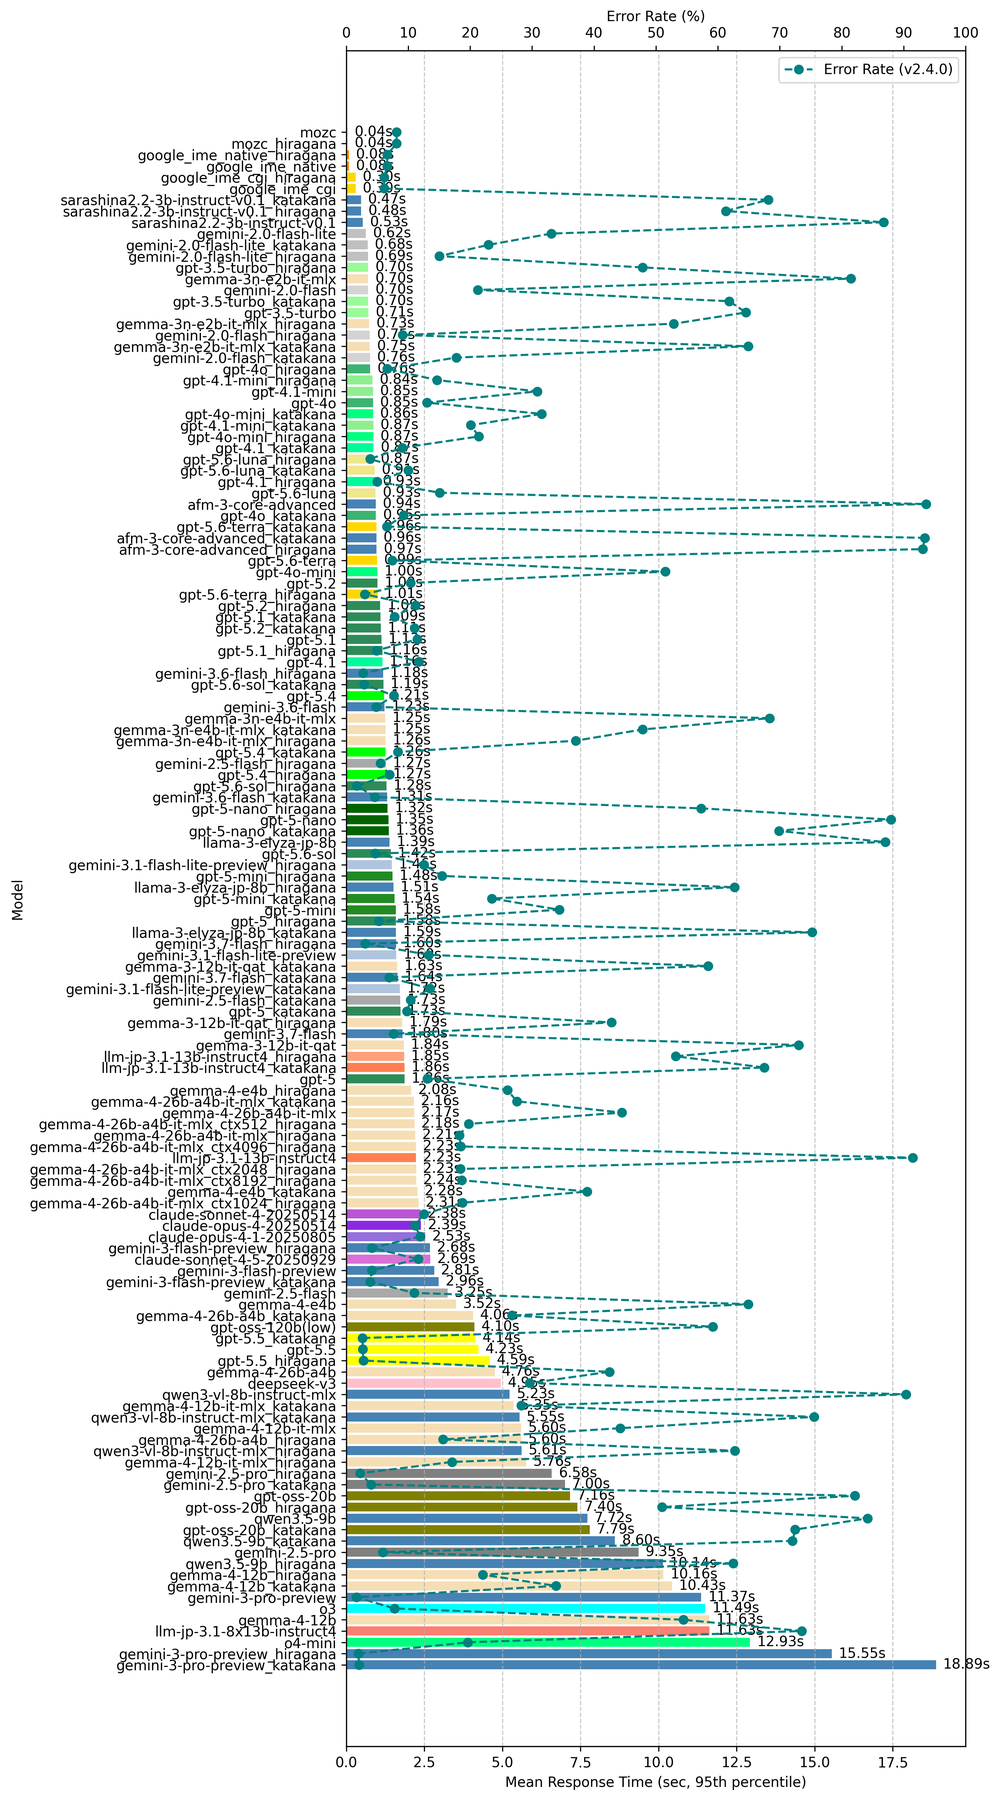
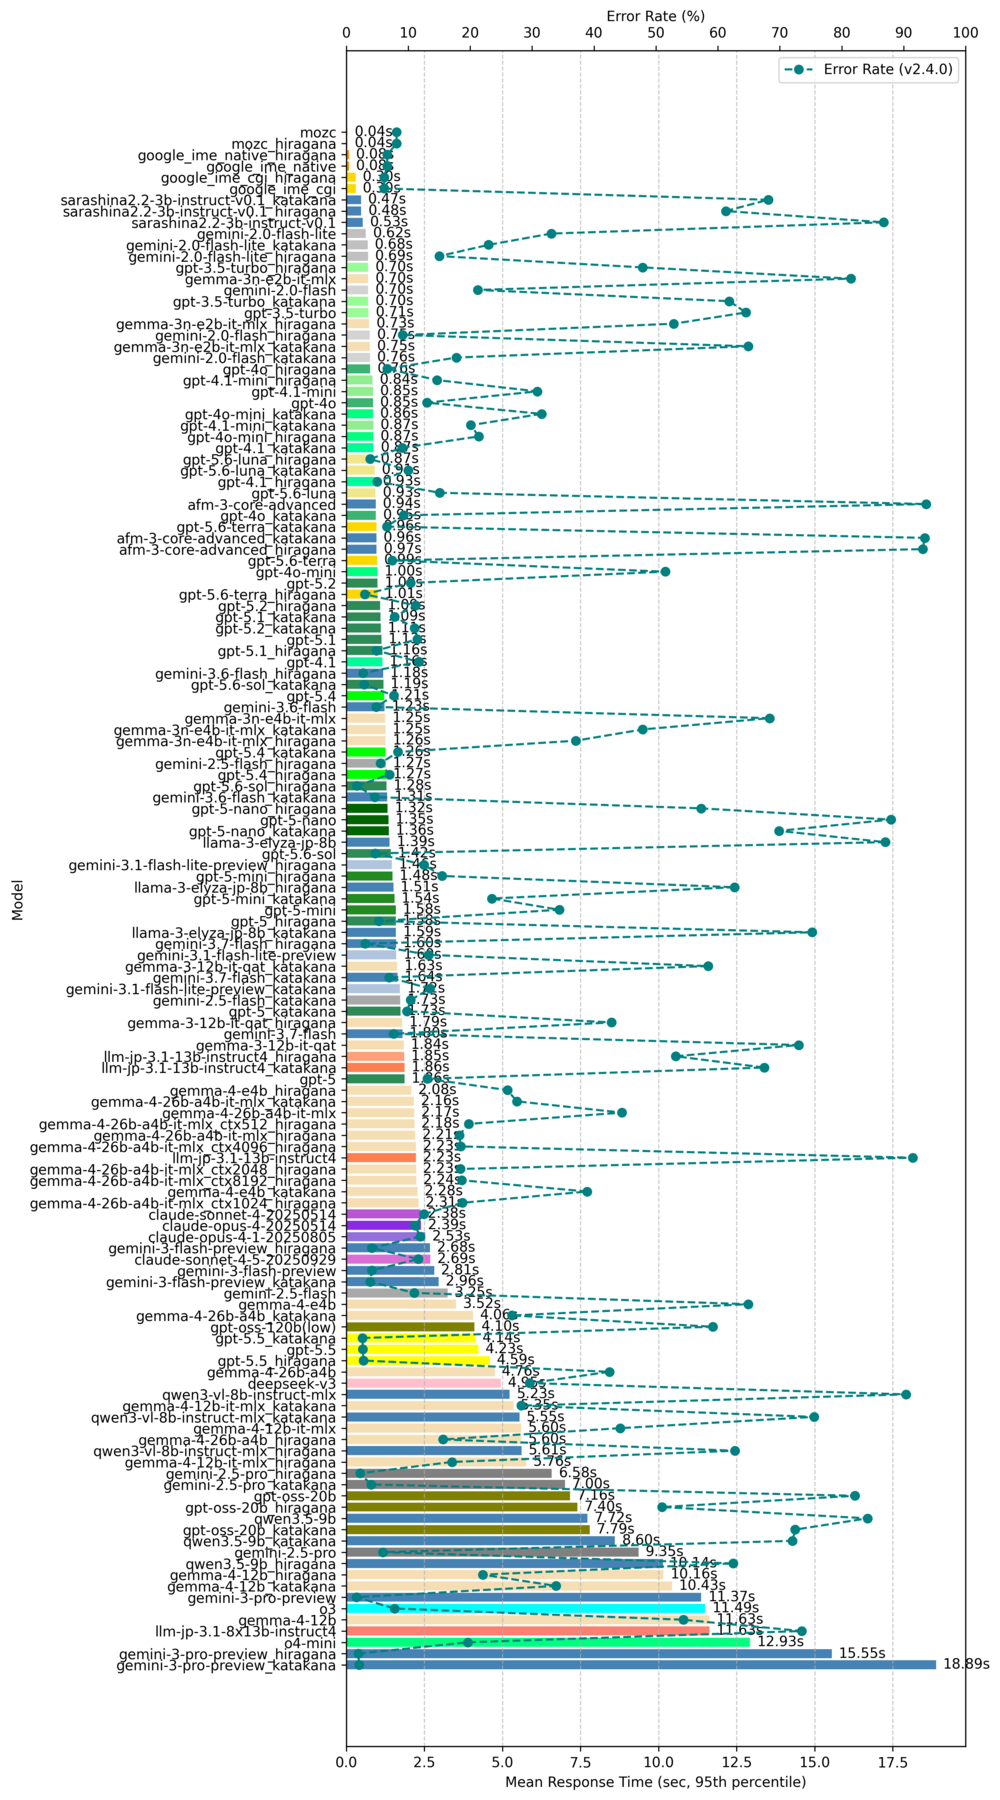
benchmark/Makefile: プロットが結果JSONの増減を検知するよう修正 (Issue #180)
プロットのターゲットが .py にしか依存しておらず、結果JSONを追加しても
make が再生成せず "Nothing to be done" を返していた。

個々のJSONを前提条件にすると result_ver%.json のパターンルールが発火し、
sumibi_bench.py より古い結果JSONを軒並み再計測しようとする（API課金と
数時間を伴う）ため、パターンにマッチしない結果ディレクトリを前提条件にした。

あわせてグラフ生成に必要な依存（matplotlib / numpy / adjustText /
imagemagick）をREADMEのセットアップ手順に追記した。

diff --git a/benchmark/README.md b/benchmark/README.md
@@ -98,6 +98,15 @@ python3 sumibi_bench.py evaluation_items.json output_katakana.json katakana_inpu
    pip install --upgrade openai
    ```
 
+4. グラフを生成する場合は、追加で以下が必要
+
+   ```bash
+   pip install matplotlib numpy adjustText
+   brew install imagemagick    # make plots のリサイズに convert を使う
+   ```
+
+   `adjustText` は「エラー率 vs コスト」のラベル配置にのみ使います。
+
 ### 実行手順
 
 1. LLMベンチマーク実行（Googleのgemini-2.0-flashの例）
